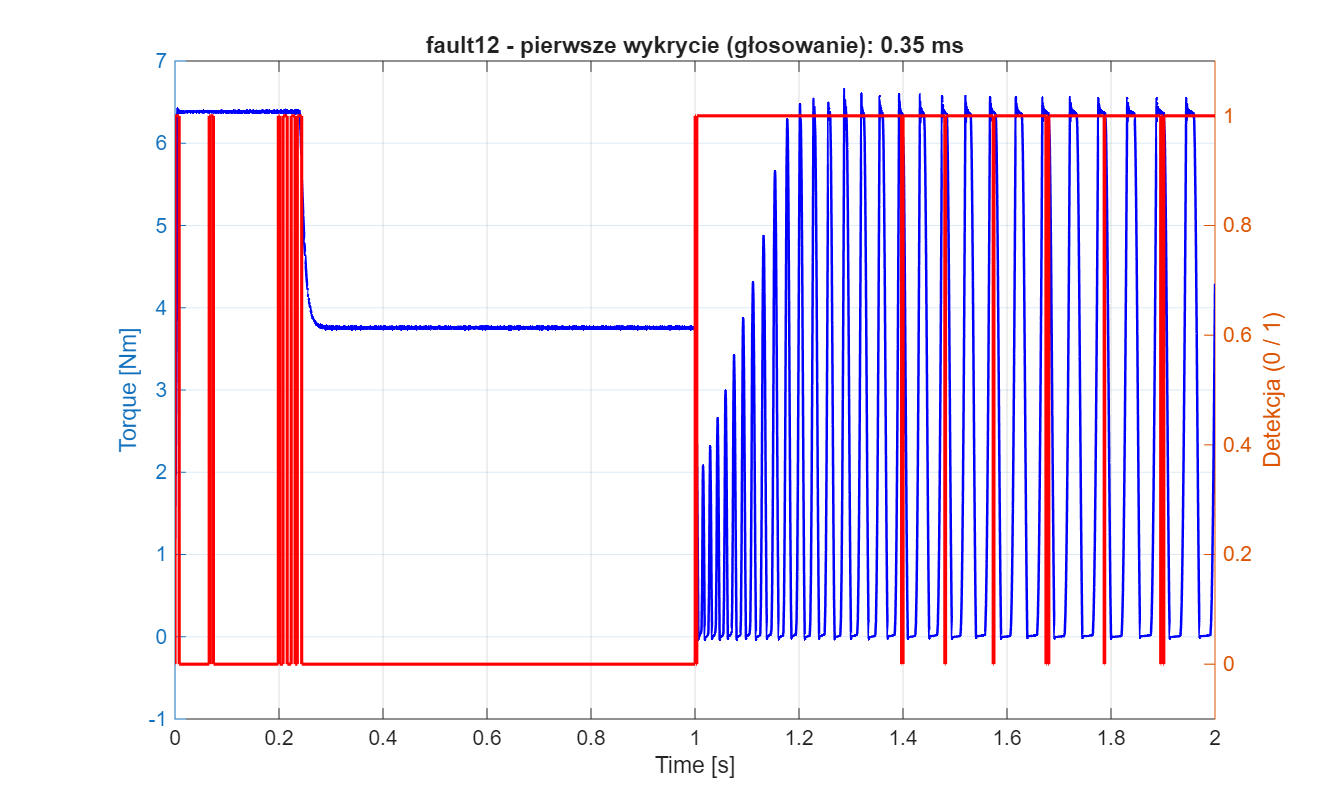
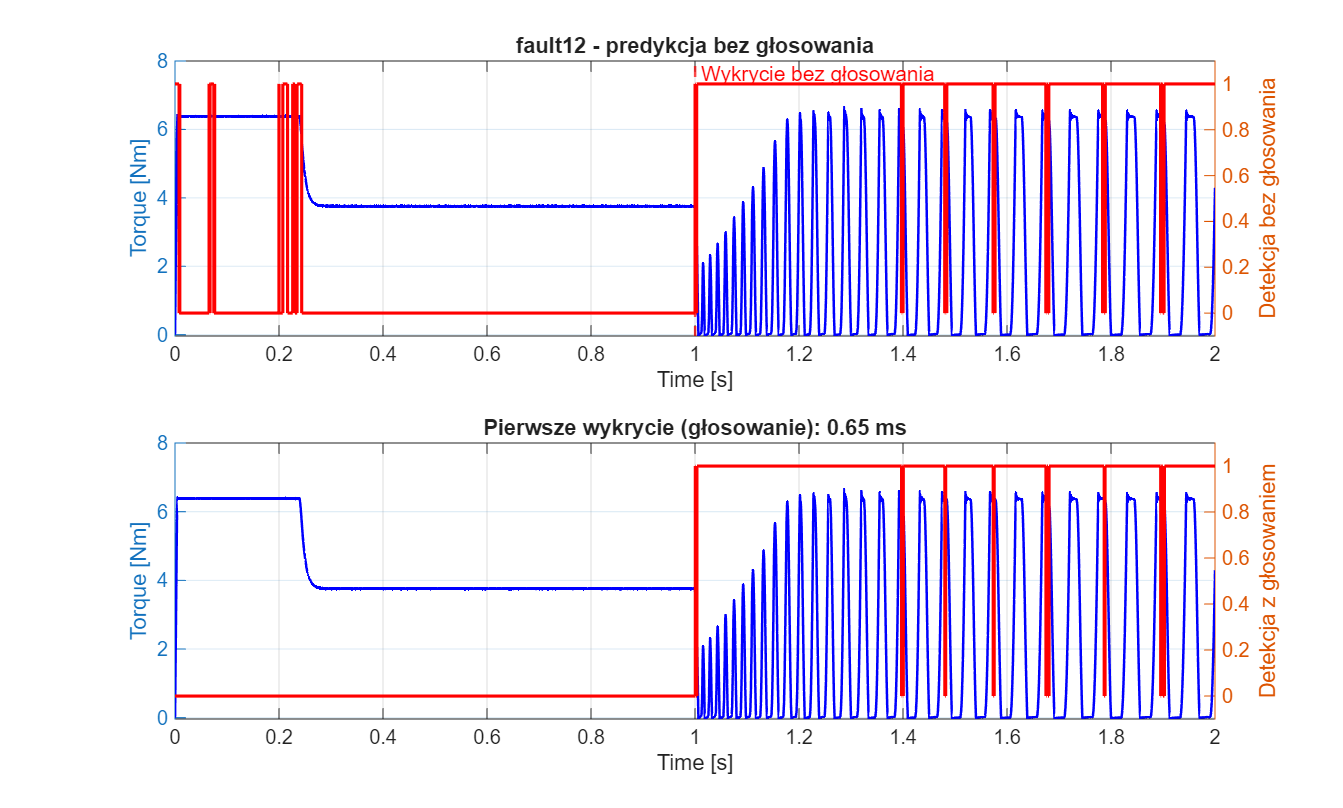
ds

diff --git a/projekt_indentyfikacja/proba_klasyfikatora_1/klasyfikator_dobre_zle_v2.m b/projekt_indentyfikacja/proba_klasyfikatora_1/klasyfikator_dobre_zle_v2.m
@@ -154,10 +154,12 @@ scoresPos = Ypred_probs(:,2);
 [~,~,~,AUC] = perfcurve(Ytest,scoresPos,1);
 fprintf('Zbiorcza AUC = %.3f\n', AUC);
 
-%% ===== Bulk processing: predykcja + głosowanie + zapis wykresów =====
+%% ===== Bulk processing: predykcja + głosowanie + zapis wykresów + macierz pomyłek =====
 plot_dir = './plots_binary/';
+matrix_dir = './matrix/';
 if ~exist(plot_dir,'dir'); mkdir(plot_dir); end
-voteLen = 10;
+if ~exist(matrix_dir,'dir'); mkdir(matrix_dir); end
+voteLen = 200;
 
 files = dir(fullfile(path_data,'*_faultType0.mat'));
 for f = 1:length(files)
@@ -187,47 +189,84 @@ for f = 1:length(files)
         Xwin_norm = (Xwin - mu) ./ sigma;
         Yprob = predict(net, Xwin_norm);
         [~, idxmax] = max(Yprob,[],2);
-        Ypred = idxmax-1;
-        Ypred_all(s) = Ypred;
+        Ypred_all(s) = idxmax-1;
+    end
 
-        % głosowanie
-        voteBuffer = [voteBuffer(2:end); Ypred];
-        if sum(voteBuffer) >= ceil(voteLen/2)
-            Ypred_vote(s) = 1;
+    % mocniejsze wygładzenie predykcji
+    Ypred_all_filtered = medfilt1(Ypred_all,100);       % filtr medianowy
+    Ypred_all_filtered = movmean(Ypred_all_filtered,80); % opcjonalne dodatkowe wygładzenie średnią
+    Ypred_all_filtered = Ypred_all_filtered > 0.5;    % progowanie
+
+    % ---- Głosowanie ----
+    for s = 1:nSamples
+        if s < tailStart
+            Ypred_vote(s) = 0; % ignorujemy próbki przed tailStart
         else
-            Ypred_vote(s) = 0;
-        end
+            voteBuffer = [voteBuffer(2:end); Ypred_all_filtered(s)];
+            if sum(voteBuffer) >= ceil(voteLen*0.7) % wyższy próg
+                Ypred_vote(s) = 1;
+            else
+                Ypred_vote(s) = 0;
+            end
 
-        if ~found_fault_vote && Ypred_vote(s)==1 && s>=tailStart
-            first_detection_vote = (s-tailStart)*dt;
-            found_fault_vote = true;
+            if ~found_fault_vote && Ypred_vote(s)==1
+                first_detection_vote = (s-tailStart)*dt;
+                found_fault_vote = true;
+            end
         end
     end
 
-    % ---- Wykresy z głosowaniem ----
+    % ---- Wykresy w jednym figure z 2 subplotami ----
     t_plot = (0:nSamples-1)*dt;
     torque_plot = mat_signal(:,6);
 
     hFig = figure('Visible','off');
+
+    subplot(2,1,1)
     yyaxis left
     plot(t_plot, torque_plot,'b','LineWidth',1.2); grid on;
     ylabel('Torque [Nm]');
+    yyaxis right
+    stairs(t_plot, Ypred_all,'r','LineWidth',1.5); ylim([-0.1 1.1]);
+    ylabel('Detekcja bez głosowania');
+    xlabel('Time [s]');
+    title(sprintf('%s - predykcja bez głosowania', case_label));
 
+    % ---- Dodanie linii pionowej pierwszego wykrycia bez głosowania ----
+    idx_fault_novote = find(Ypred_all==1 & (1:nSamples)'>=tailStart,1,'first');
+    if ~isempty(idx_fault_novote)
+        xline(t_plot(idx_fault_novote),'--r','LineWidth',1.2,'Label','Wykrycie bez głosowania','LabelOrientation','horizontal');
+    end
+
+    subplot(2,1,2)
+    yyaxis left
+    plot(t_plot, torque_plot,'b','LineWidth',1.2); grid on;
+    ylabel('Torque [Nm]');
     yyaxis right
     stairs(t_plot, Ypred_vote,'r','LineWidth',1.5); ylim([-0.1 1.1]);
-    ylabel('Detekcja (0 / 1)');
-
+    ylabel('Detekcja z głosowaniem');
     xlabel('Time [s]');
     if found_fault_vote
-        title(sprintf('%s - pierwsze wykrycie (głosowanie): %.2f ms', case_label, first_detection_vote*1000));
+        title(sprintf('Pierwsze wykrycie (głosowanie): %.2f ms', first_detection_vote*1000));
     else
-        title(sprintf('%s - brak wykrycia błędu (głosowanie)', case_label));
+        title('Brak wykrycia błędu (głosowanie)');
     end
 
     saveas(hFig, fullfile(plot_dir,[case_label,'_plot.png']));
     close(hFig);
 
-    fprintf('Zapisano wykres z głosowaniem: %s\n', case_label);
+    fprintf('Zapisano wykres z głosowaniem i bez głosowania: %s\n', case_label);
+
+    % ---- Macierz pomyłek dla każdego przypadku ----
+    Ytrue_case = [zeros(tailStart-1,1); ones(nSamples-tailStart+1,1)];
+    hFigMatrix = figure('Visible','off');
+    confusionchart(Ytrue_case,Ypred_vote,'Title',sprintf('Macierz pomyłek - %s', case_label),...
+        'ColumnSummary','column-normalized','RowSummary','row-normalized');
+    saveas(hFigMatrix, fullfile(matrix_dir, ['matrix_fault_', case_label, '.png']));
+    close(hFigMatrix);
+
+    fprintf('Zapisano macierz pomyłek: matrix_fault_%s.png\n', case_label);
 end
 
-fprintf('Wszystkie wykresy binary z głosowaniem zapisane w folderze: %s\n', plot_dir);
+fprintf('Wszystkie wykresy i macierze pomyłek zapisane.\n');
+
